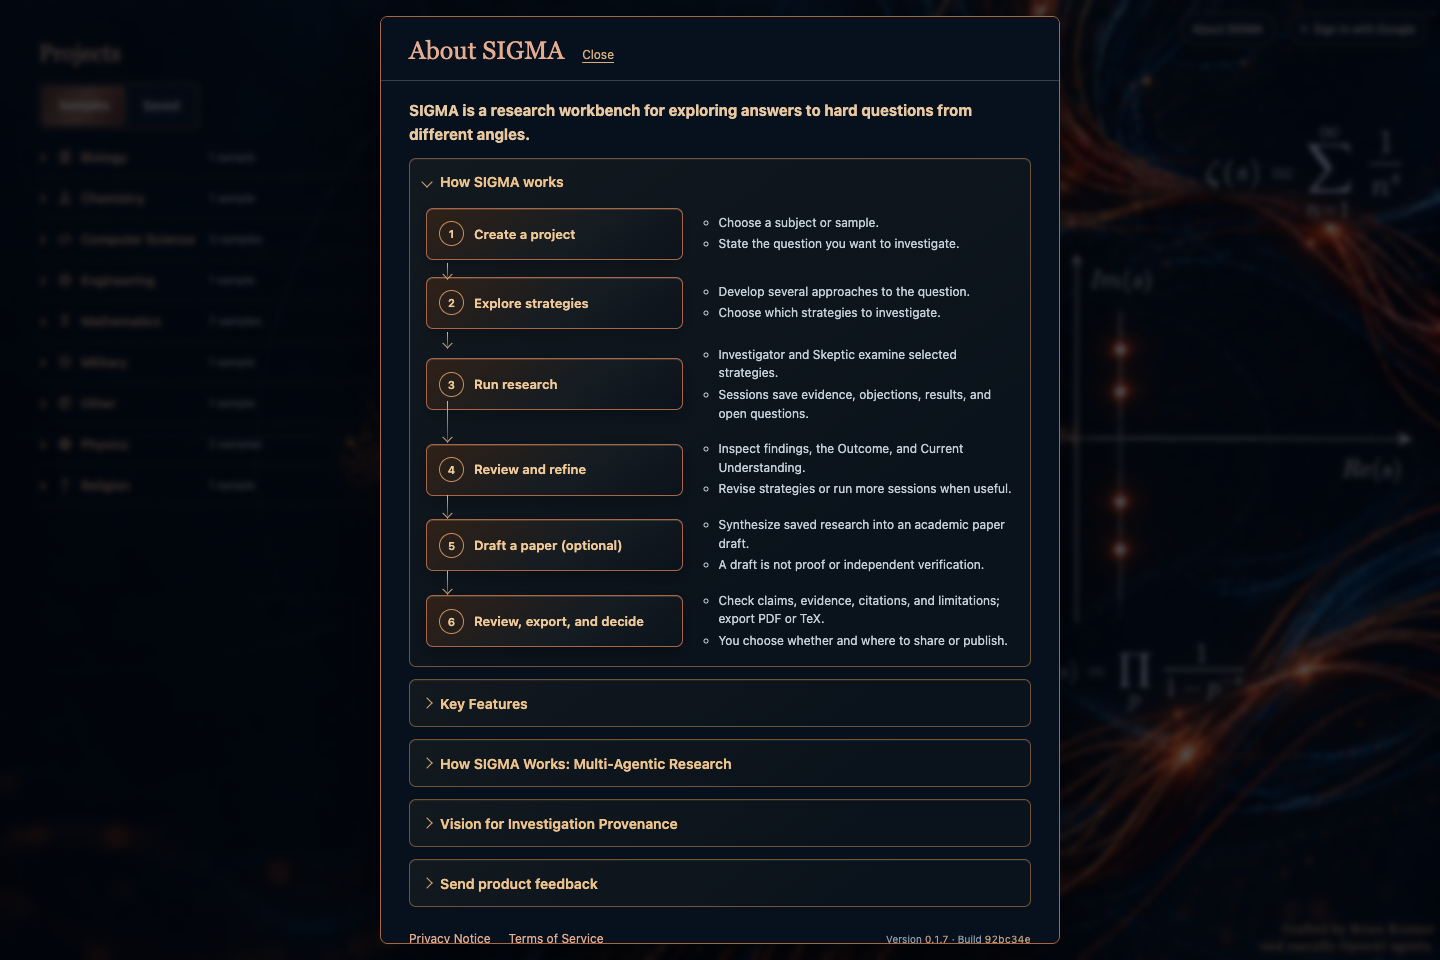
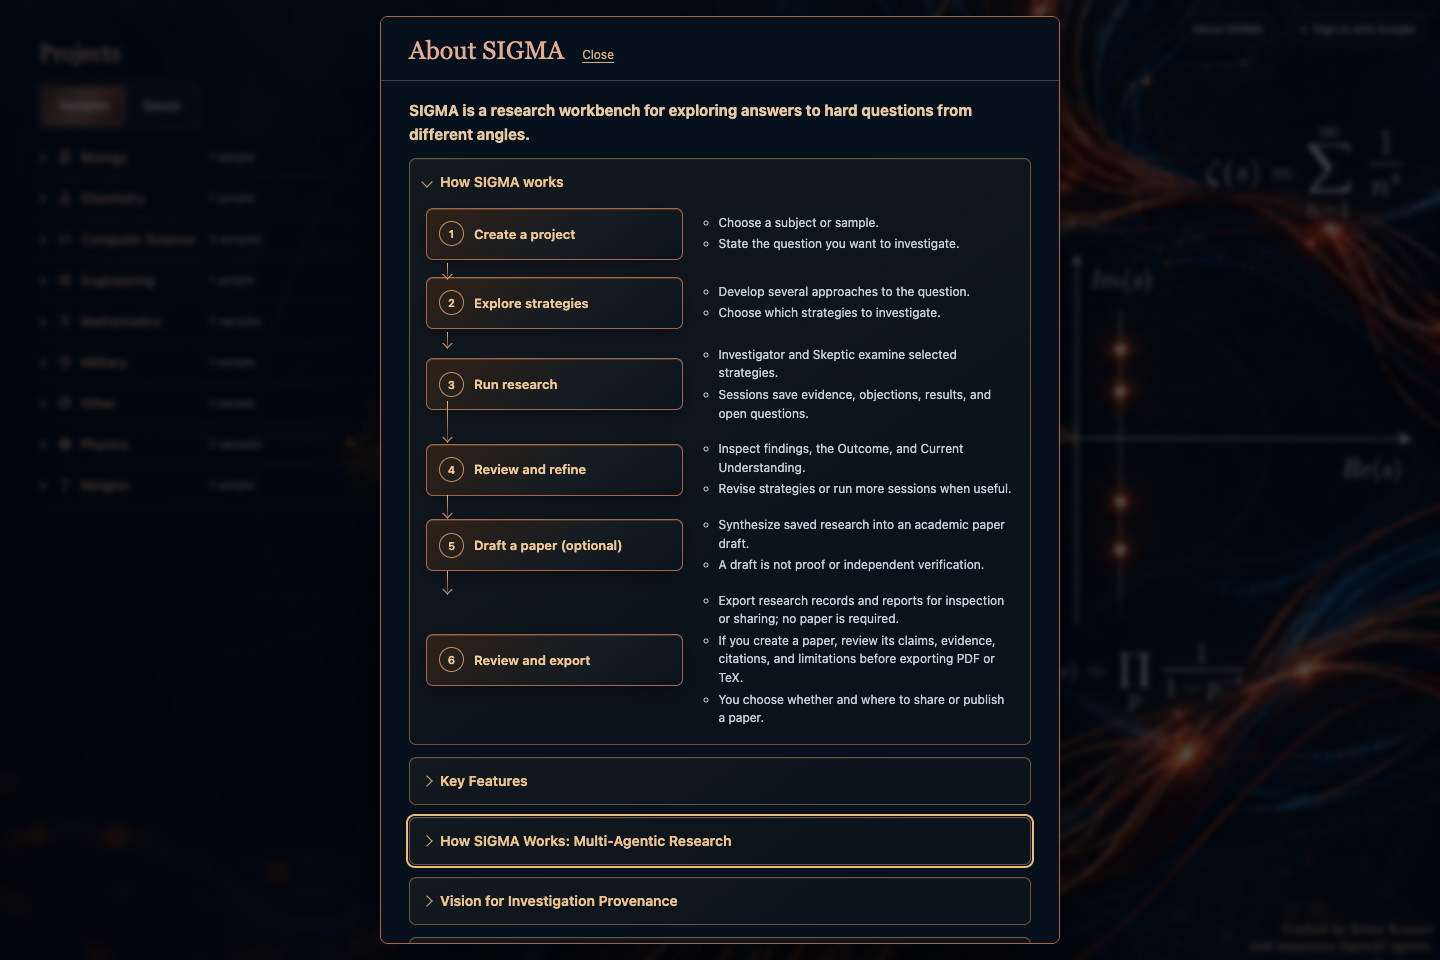
Address review feedback on issue 437 workflow

diff --git a/frontend/src/main.tsx b/frontend/src/main.tsx
@@ -2922,7 +2922,7 @@ function AboutWorkflow() {
     { title: 'Run research', notes: ['Investigator and Skeptic examine selected strategies.', 'Sessions save evidence, objections, results, and open questions.'] },
     { title: 'Review and refine', notes: ['Inspect findings, the Outcome, and Current Understanding.', 'Revise strategies or run more sessions when useful.'] },
     { title: 'Draft a paper (optional)', notes: ['Synthesize saved research into an academic paper draft.', 'A draft is not proof or independent verification.'] },
-    { title: 'Review, export, and decide', notes: ['Check claims, evidence, citations, and limitations; export PDF or TeX.', 'You choose whether and where to share or publish.'] },
+    { title: 'Review and export', notes: ['Export research records and reports for inspection or sharing; no paper is required.', 'If you create a paper, review its claims, evidence, citations, and limitations before exporting PDF or TeX.', 'You choose whether and where to share or publish a paper.'] },
   ];
   return <ol className="about-workflow" aria-label="SIGMA research workflow">{stages.map((stage, index) => <li className="about-workflow-stage" key={stage.title}>
     <div className="about-workflow-step"><span className="about-workflow-number" aria-hidden="true">{index + 1}</span><h3>{stage.title}</h3></div>

diff --git a/frontend/src/project-entry.css b/frontend/src/project-entry.css
@@ -211,7 +211,7 @@
   .home-page .about-workflow-step { min-height: 44px; padding: 8px 10px; }
   .home-page .about-workflow-stage:not(:last-child)::after { top: 47px; bottom: -16px; left: 19px; }
   .home-page .about-workflow-stage:not(:last-child)::before { bottom: -16px; left: 16px; }
-  .home-page .about-workflow-notes { padding-left: 39px; font-size: 11px; }
+  .home-page .about-workflow-notes { padding-left: 39px; font-size: 12px; line-height: 1.55; }
   .home-page .about-strategy-cards { grid-template-columns: minmax(0, 1fr); gap: 7px; }
   .home-page .about-session-frame, .home-page .about-strategy-group { padding: 9px; }
   .home-page .about-exploration-space { padding: 8px 6px; }

diff --git a/browser_checks/issue437_workflow.py b/browser_checks/issue437_workflow.py
@@ -75,8 +75,35 @@ def main() -> None:
             expect(dialog.locator(".about-workflow-stage")).to_have_count(6)
             expect(dialog.locator(".about-workflow")).to_contain_text("Current Understanding")
             expect(dialog.locator(".about-workflow")).to_contain_text(
-                "You choose whether and where to share or publish."
+                "Export research records and reports for inspection or sharing; no paper is required."
             )
+            expect(dialog.locator(".about-workflow")).to_contain_text(
+                "If you create a paper, review its claims, evidence, citations, and limitations before exporting PDF or TeX."
+            )
+            expect(dialog.locator(".about-workflow")).to_contain_text(
+                "You choose whether and where to share or publish a paper."
+            )
+            # Native details/summary disclosures must operate with both standard keyboard keys.
+            workflow_summary = workflow.locator("summary")
+            workflow_summary.focus()
+            page.keyboard.press("Enter")
+            expect(workflow).not_to_have_attribute("open", "")
+            page.wait_for_function(
+                "JSON.parse(localStorage.getItem('sigma.aboutDisclosureState.v1')).workflow === false"
+            )
+            page.keyboard.press("Space")
+            expect(workflow).to_have_attribute("open", "")
+            expect(workflow_summary).to_be_focused()
+            page.wait_for_function(
+                "JSON.parse(localStorage.getItem('sigma.aboutDisclosureState.v1')).workflow === true"
+            )
+            architecture = dialog.locator('[data-about-section="architecture"]')
+            architecture_summary = architecture.locator("summary")
+            architecture_summary.focus()
+            page.keyboard.press("Space")
+            expect(architecture).to_have_attribute("open", "")
+            page.keyboard.press("Enter")
+            expect(architecture).not_to_have_attribute("open", "")
             assert dialog.locator(".about-workflow").evaluate(
                 "e => [...e.querySelectorAll('.about-workflow-stage')].every(li => { const step = li.querySelector('.about-workflow-step').getBoundingClientRect(); const notes = li.querySelector('.about-workflow-notes').getBoundingClientRect(); return step.left < notes.left && Math.abs(step.top + step.height / 2 - (notes.top + notes.height / 2)) < 35; })"
             ), "Desktop stage boxes and explanatory bullets must align in two columns"
@@ -128,17 +155,34 @@ def main() -> None:
             )
 
             # Narrow layout stacks each set of bullets below its own stage box.
-            page.set_viewport_size({"width": 390, "height": 844})
             workflow = dialog.locator('[data-about-section="workflow"]')
             workflow.locator("summary").click()
-            expect(workflow.locator(".about-workflow-stage")).to_have_count(6)
-            assert workflow.evaluate(
-                "e => [...e.querySelectorAll('.about-workflow-stage')].every(li => { const step = li.querySelector('.about-workflow-step').getBoundingClientRect(); const notes = li.querySelector('.about-workflow-notes').getBoundingClientRect(); return notes.top >= step.bottom && notes.left >= step.left; })"
-            ), "Narrow layout must place each stage's notes below its box"
-            assert dialog.evaluate("e => e.scrollWidth <= e.clientWidth + 1"), (
-                "Narrow About dialog must not overflow horizontally"
-            )
-            page.screenshot(path=str(EVIDENCE / "about-workflow-mobile.png"), full_page=True)
+            for width, screenshot_top, screenshot_bottom in (
+                (390, "about-workflow-mobile.png", "about-workflow-mobile-bottom.png"),
+                (320, "about-workflow-mobile-320.png", "about-workflow-mobile-320-bottom.png"),
+            ):
+                page.set_viewport_size({"width": width, "height": 844 if width == 390 else 740})
+                expect(workflow).to_have_attribute("open", "")
+                expect(workflow.locator(".about-workflow-stage")).to_have_count(6)
+                assert workflow.evaluate(
+                    "e => [...e.querySelectorAll('.about-workflow-stage')].every(li => { const step = li.querySelector('.about-workflow-step').getBoundingClientRect(); const notes = li.querySelector('.about-workflow-notes').getBoundingClientRect(); return notes.top >= step.bottom && notes.left >= step.left; })"
+                ), (width, "Narrow layout must place each stage's notes below its box")
+                assert dialog.evaluate("e => e.scrollWidth <= e.clientWidth + 1"), (
+                    width,
+                    "Narrow About dialog must not overflow horizontally",
+                )
+                assert workflow.evaluate(
+                    "e => [...e.querySelectorAll('.about-workflow-notes li')].every(li => { const s = getComputedStyle(li); return li.clientWidth > 0 && li.clientHeight > 0 && li.scrollWidth <= li.clientWidth + 1 && li.scrollHeight <= li.clientHeight + 1 && !['hidden', 'clip'].includes(s.overflowX) && !['hidden', 'clip'].includes(s.overflowY) && (!s.webkitLineClamp || s.webkitLineClamp === 'none'); })"
+                ), (
+                    width,
+                    "Workflow explanatory text must wrap fully without clipping or line clamping",
+                )
+                dialog.evaluate("e => { e.scrollTop = 0; }")
+                page.screenshot(path=str(EVIDENCE / screenshot_top))
+                final_stage = workflow.locator(".about-workflow-stage").last
+                final_stage.evaluate("e => e.scrollIntoView({block: 'end', behavior: 'instant'})")
+                expect(final_stage).to_be_in_viewport()
+                page.screenshot(path=str(EVIDENCE / screenshot_bottom))
             expect(dialog.locator(".about-architecture")).to_be_attached()
             page.get_by_role("button", name="Close").click()
             page.evaluate(

diff --git a/browser_checks/issue437_mermaid_render.py b/browser_checks/issue437_mermaid_render.py
@@ -1,0 +1,75 @@
+"""Render README's Mermaid flow with the independent Mermaid JS library in Chrome."""
+
+import html
+import re
+from pathlib import Path
+
+from playwright.sync_api import sync_playwright
+
+ROOT = Path(__file__).resolve().parents[1]
+EVIDENCE = ROOT / "docs/evaluations/issue437/readme-mermaid-independent.png"
+MERMAID_CDN = "https://cdn.jsdelivr.net/npm/mermaid@11/dist/mermaid.min.js"
+
+
+def main() -> None:
+    readme = (ROOT / "README.md").read_text()
+    blocks = re.findall(r"```mermaid\s*\n(.*?)\n```", readme, flags=re.DOTALL)
+    assert len(blocks) == 1, f"Expected one inline Mermaid diagram; found {len(blocks)}"
+    source = html.escape(blocks[0])
+    page_content = f"""<!doctype html>
+<html><head><meta charset="utf-8"><style>
+body {{ margin: 0; padding: 28px; color: #e5edf5; background: #08111c;
+  font: 16px/1.5 system-ui, sans-serif; }}
+main {{ box-sizing: border-box; width: min(980px, 100%); margin: auto; padding: 24px;
+  border: 1px solid #8d5a43; border-radius: 12px; background: #0c1622; }}
+h1 {{ margin: 0 0 20px; color: #efc28a; font-size: 22px; }}
+.mermaid {{ margin: 0; }}
+</style></head><body><main><h1>SIGMA workflow · independent Mermaid renderer</h1>
+<pre class="mermaid">{source}</pre></main>
+<script src="{MERMAID_CDN}"></script>
+<script>mermaid.initialize({{startOnLoad: true, theme: 'dark', flowchart: {{curve: 'linear'}}}});</script>
+</body></html>"""
+
+    with sync_playwright() as playwright:
+        browser = playwright.chromium.launch(
+            executable_path="/Applications/Google Chrome.app/Contents/MacOS/Google Chrome",
+            headless=True,
+        )
+        try:
+            page = browser.new_page(viewport={"width": 1440, "height": 1100})
+            page_errors: list[str] = []
+            page.on("pageerror", lambda error: page_errors.append(str(error)))
+            page.set_content(page_content, wait_until="networkidle", timeout=60000)
+            diagram = page.locator(".mermaid svg")
+            diagram.wait_for(state="visible", timeout=30000)
+            nodes = diagram.locator("g.node")
+            labels = [label.strip() for label in nodes.locator(".nodeLabel").all_text_contents()]
+            expected_stages = [
+                "Create a project",
+                "Explore research strategies",
+                "Run Investigator and Skeptic research",
+                "Review findings and refine understanding",
+                "Draft an academic paper",
+                "Review and export",
+            ]
+            normalized_labels = " ".join(" ".join(label.split()) for label in labels)
+            assert len(nodes.all()) == 6, normalized_labels
+            assert all(stage in normalized_labels for stage in expected_stages), normalized_labels
+            edge_count = diagram.locator("path[marker-end]").count()
+            assert edge_count >= 6, f"Expected six visible flow connectors; found {edge_count}"
+            edge_labels = " ".join(diagram.locator(".edgeLabel").all_text_contents())
+            assert "optional paper" in edge_labels.lower(), edge_labels
+            assert "research records and reports" in edge_labels.lower(), edge_labels
+            assert "paper review and export" in edge_labels.lower(), edge_labels
+            assert not page_errors, page_errors
+            EVIDENCE.parent.mkdir(parents=True, exist_ok=True)
+            page.locator("main").screenshot(path=str(EVIDENCE))
+            print(
+                f"PASS independent Mermaid JS v11 renderer: 6 labeled stages, {edge_count} connectors, optional-paper and distinct research/paper export paths."
+            )
+        finally:
+            browser.close()
+
+
+if __name__ == "__main__":
+    main()

diff --git a/docs/evaluations/issue437/README.md b/docs/evaluations/issue437/README.md
@@ -8,21 +8,23 @@ Base: `main` at `92bc34eda4c53decd6de29af315100251a5fde62`
 
 | Requirement | Result | Evidence |
 |---|---|---|
-| New first About disclosure explains project → research → optional paper → user-decided publication | **MET** | Six linked stages in `.about-workflow`; concise notes alongside every stage. |
-| First visit opens the workflow; all About disclosures persist across close/reopen and reload | **MET** | `browser_checks/issue437_workflow.py` checks first-visit default and all five rendered disclosures (workflow, features, architecture, provenance, feedback) across close/reopen and reload. It also checks stale/invalid saved section values fall back to defaults. |
-| Desktop left-column boxes and right-column notes; responsive narrow layout | **MET** | Real Chrome at 1440×960 and 390×844. Harness checks stage/notes alignment and no horizontal dialog overflow. |
-| Existing multi-agent diagram and About content remain | **MET** | Existing architecture disclosure and component remain; Chrome harness confirms architecture diagram is present. |
-| README has an equivalent inline diagram with stage notes | **MET** | GitHub Mermaid flowchart and associated bullets directly below “Using SIGMA.” |
-| Welcome tells newcomers to open About SIGMA | **MET** | `browser_checks/guest_samples.py` checks the new line during the real Chrome guest workflow. |
-| No autonomous verification or automatic publication claims | **MET** | Copy states that a draft is not proof or independent verification, and publication is the user's decision. |
-| GitHub-rendered README Mermaid appearance | **UNVERIFIED** | The pushed GitHub README returns HTTP 200 and labels the block as a Mermaid rendered-output container, but real Chrome showed a loading spinner and no completed graph after 15 seconds. |
+| First About disclosure explains project → research → optional paper → user-decided publication | **MET** | Six connected stages in `.about-workflow`. Stage 6 distinguishes research records/reports from paper PDF/TeX export. Paper sharing/publication is the user's choice. |
+| All About disclosure states persist across close/reopen and reload | **MET** | `browser_checks/issue437_workflow.py` checks first-visit defaults and all five available About disclosures in the cloud-enabled fixture across close/reopen and reload, plus stale/invalid saved values. |
+| About diagram fits desktop and narrow screens without truncated notes | **MET** | Real Chrome at 1440×960, 390×844, and 320×740. Narrow notes use 12px. The harness checks stacked layout, text scroll/clip metrics, no horizontal overflow, and reachability of the final stage through normal dialog scrolling. |
+| Keyboard operation of disclosures | **MET** | Chrome harness toggles workflow and architecture disclosures with Enter and Space. |
+| Existing multi-agent architecture content remains | **MET** | Existing disclosure and component remain; the Chrome harness confirms architecture content is present. |
+| README has an equivalent inline flow and stage notes; its lead-in is concise | **MET** | The original walkthrough is condensed, session settings link to Getting Started, and the six-stage diagram/bullets directly follow the short lead-in. Diagram arrows distinguish research export from the optional-paper route. |
+| Mermaid source renders as a complete, legible diagram | **MET** | [Independent Mermaid JS v11 Chrome render](readme-mermaid-independent.png) shows six labeled nodes and six connectors. `browser_checks/issue437_mermaid_render.py` extracts the exact README block and checks nodes and route labels. |
+| GitHub's own rendered Mermaid display | **UNVERIFIED** | The corrected pushed README page has not yet been rechecked. Earlier, real Chrome remained on a spinner after 15 seconds. The complete independent Chrome render is evidence for the Mermaid source, not GitHub's rendering. |
+| Welcome points newcomers to About SIGMA; no proof/publishing overclaims | **MET** | Real Chrome guest-flow check asserts the Welcome line. About and README say a paper is optional and publication is user-decided; they do not claim independent verification or automatic journal submission. |
 
 ## Checks run
 
-- `./sigma test` — **passed**: all steps including Python scenarios, Ruff lint/format, Pyright (0 diagnostics), frontend typecheck, and production build. Existing large JavaScript chunk advisory remains. The optional graph-present Python sandbox case skipped because its local image is unavailable.
-- `SIGMA_BROWSER_BASE_URL=http://127.0.0.1:5173 uv run --with playwright --no-sync python browser_checks/issue437_workflow.py` — **passed** in real Google Chrome. Verified disclosure order/defaults, saved states through close/reopen/reload, six stages, desktop alignment, mobile stacked notes, no horizontal overflow, and preserved architecture diagram. Screenshots: [desktop](about-workflow-desktop.png), [mobile](about-workflow-mobile.png).
-- `uv run --with playwright,httpx --no-sync python browser_checks/guest_samples.py` — **passed** in real Google Chrome; included Welcome guidance assertion.
+- `./sigma test` — **passed after review corrections**: Python scenarios, Ruff lint/format, Pyright (0 errors/warnings/information), frontend typecheck, and production build. Existing large JavaScript chunk advisory remains. Optional graph-present sandbox scenario skipped because its local image is unavailable.
+- `SIGMA_BROWSER_BASE_URL=http://127.0.0.1:5173 uv run --with playwright --no-sync python browser_checks/issue437_workflow.py` — **passed** in real Google Chrome. Checks About order/defaults, keyboard Enter/Space, persistence after close/reopen/reload, stale defaults, six stages, responsive alignment, 12px notes, full wrapping, no horizontal overflow, and final-stage visibility after scrolling. Screenshots: [desktop](about-workflow-desktop.png), [390px top](about-workflow-mobile.png), [390px bottom](about-workflow-mobile-bottom.png), [320px top](about-workflow-mobile-320.png), [320px bottom](about-workflow-mobile-320-bottom.png).
+- `uv run --with playwright --no-sync python browser_checks/issue437_mermaid_render.py` — **passed** in real Chrome using the independent Mermaid JS v11 renderer; rendered all six stage labels and six connectors, including the optional paper branch and separate research/paper export paths. Screenshot: [independent Mermaid render](readme-mermaid-independent.png).
+- `uv run --with playwright,httpx --no-sync python browser_checks/guest_samples.py` — **passed** in real Google Chrome; included the Welcome guidance assertion.
 - `git diff --check` — **passed**.
-- A real-Chrome visit to the pushed GitHub README (`https://github.com/bkramerext/sigma/blob/gray/issue-437-workflow/README.md`) returned HTTP 200 and exposed `data-type="mermaid"` with the flowchart source. The GitHub Mermaid viewer still showed a loading spinner with no diagram after a 15-second wait, so completed GitHub visual rendering remains **UNVERIFIED**.
+- GitHub preview check after pushing the corrections — pending. Its completed rendering remains **UNVERIFIED** unless Chrome shows the diagram.
 
-No paid provider calls or deployments occurred. Product logic, research scheduling, and paper generation were not changed.
+No paid provider calls or deployments occurred. No research scheduling, paper-generation, or project API code changed.

diff --git a/README.md b/README.md
@@ -10,7 +10,7 @@ SIGMA does **not** establish that an answer is correct. Investigator and Skeptic
 
 ## Using SIGMA
 
-Create a project or copy a sample, write or generate strategies, and select strategies for a research session. Configure research rounds, a shared maximum number of agent turns, duration, and optional spending limits. A round is an Investigator–Skeptic exchange for one strategy; the turn limit bounds the total agent contributions across strategies. A session can be stopped and its saved record reviewed or resumed where supported. Review its Outcome alongside findings, objections, experiments, and open questions. Reports and exports preserve records for inspection; they do not verify conclusions.
+Create a project or sample, then choose strategies to investigate. The overview below shows how SIGMA preserves findings for review and how you can optionally develop saved research into a paper. For session controls and limits, see [Connect AI and investigate](docs/GETTING_STARTED.md#connect-ai-and-investigate).
 
 ### The SIGMA workflow
 
@@ -19,9 +19,9 @@ flowchart TD
     A[Create a project] --> B[Explore research strategies]
     B --> C[Run Investigator and Skeptic research]
     C --> D[Review findings and refine understanding]
-    D -->|optional| E[Draft an academic paper]
-    D --> F[Review, export, and decide whether to publish]
-    E --> F
+    D -->|research records and reports| F[Review and export]
+    D -. optional paper .-> E[Draft an academic paper]
+    E -->|paper review and export| F
 ```
 
 - **Create a project:** Choose a subject or sample and frame the question.
@@ -29,7 +29,7 @@ flowchart TD
 - **Run research:** Investigator and Skeptic examine selected strategies; SIGMA saves findings, evidence, objections, and open questions.
 - **Review and refine:** Inspect sessions, the Outcome, and Current Understanding. Revise strategies or run more sessions when useful; research can be iterative.
 - **Draft a paper (optional):** SIGMA can synthesize saved research into an academic draft. A draft is not proof or independent verification.
-- **Review, export, and decide:** Check claims, evidence, citations, and limitations, then export PDF or TeX. You choose whether and where to share or publish; SIGMA does not submit papers to journals.
+- **Review and export:** Export research records and reports for inspection or sharing, with no paper required. If you create a paper, review its claims, evidence, citations, and limitations before exporting PDF or TeX. You decide whether and where to share or publish a paper; SIGMA does not submit papers to journals.
 
 SIGMA supports ordinary local use without a Google account, local testing of Google-authenticated access, and a separately configured hosted deployment. Hosted access, membership, and provider funding depend on the deployment's configuration; a local launch does not automatically connect to the hosted service.
 
